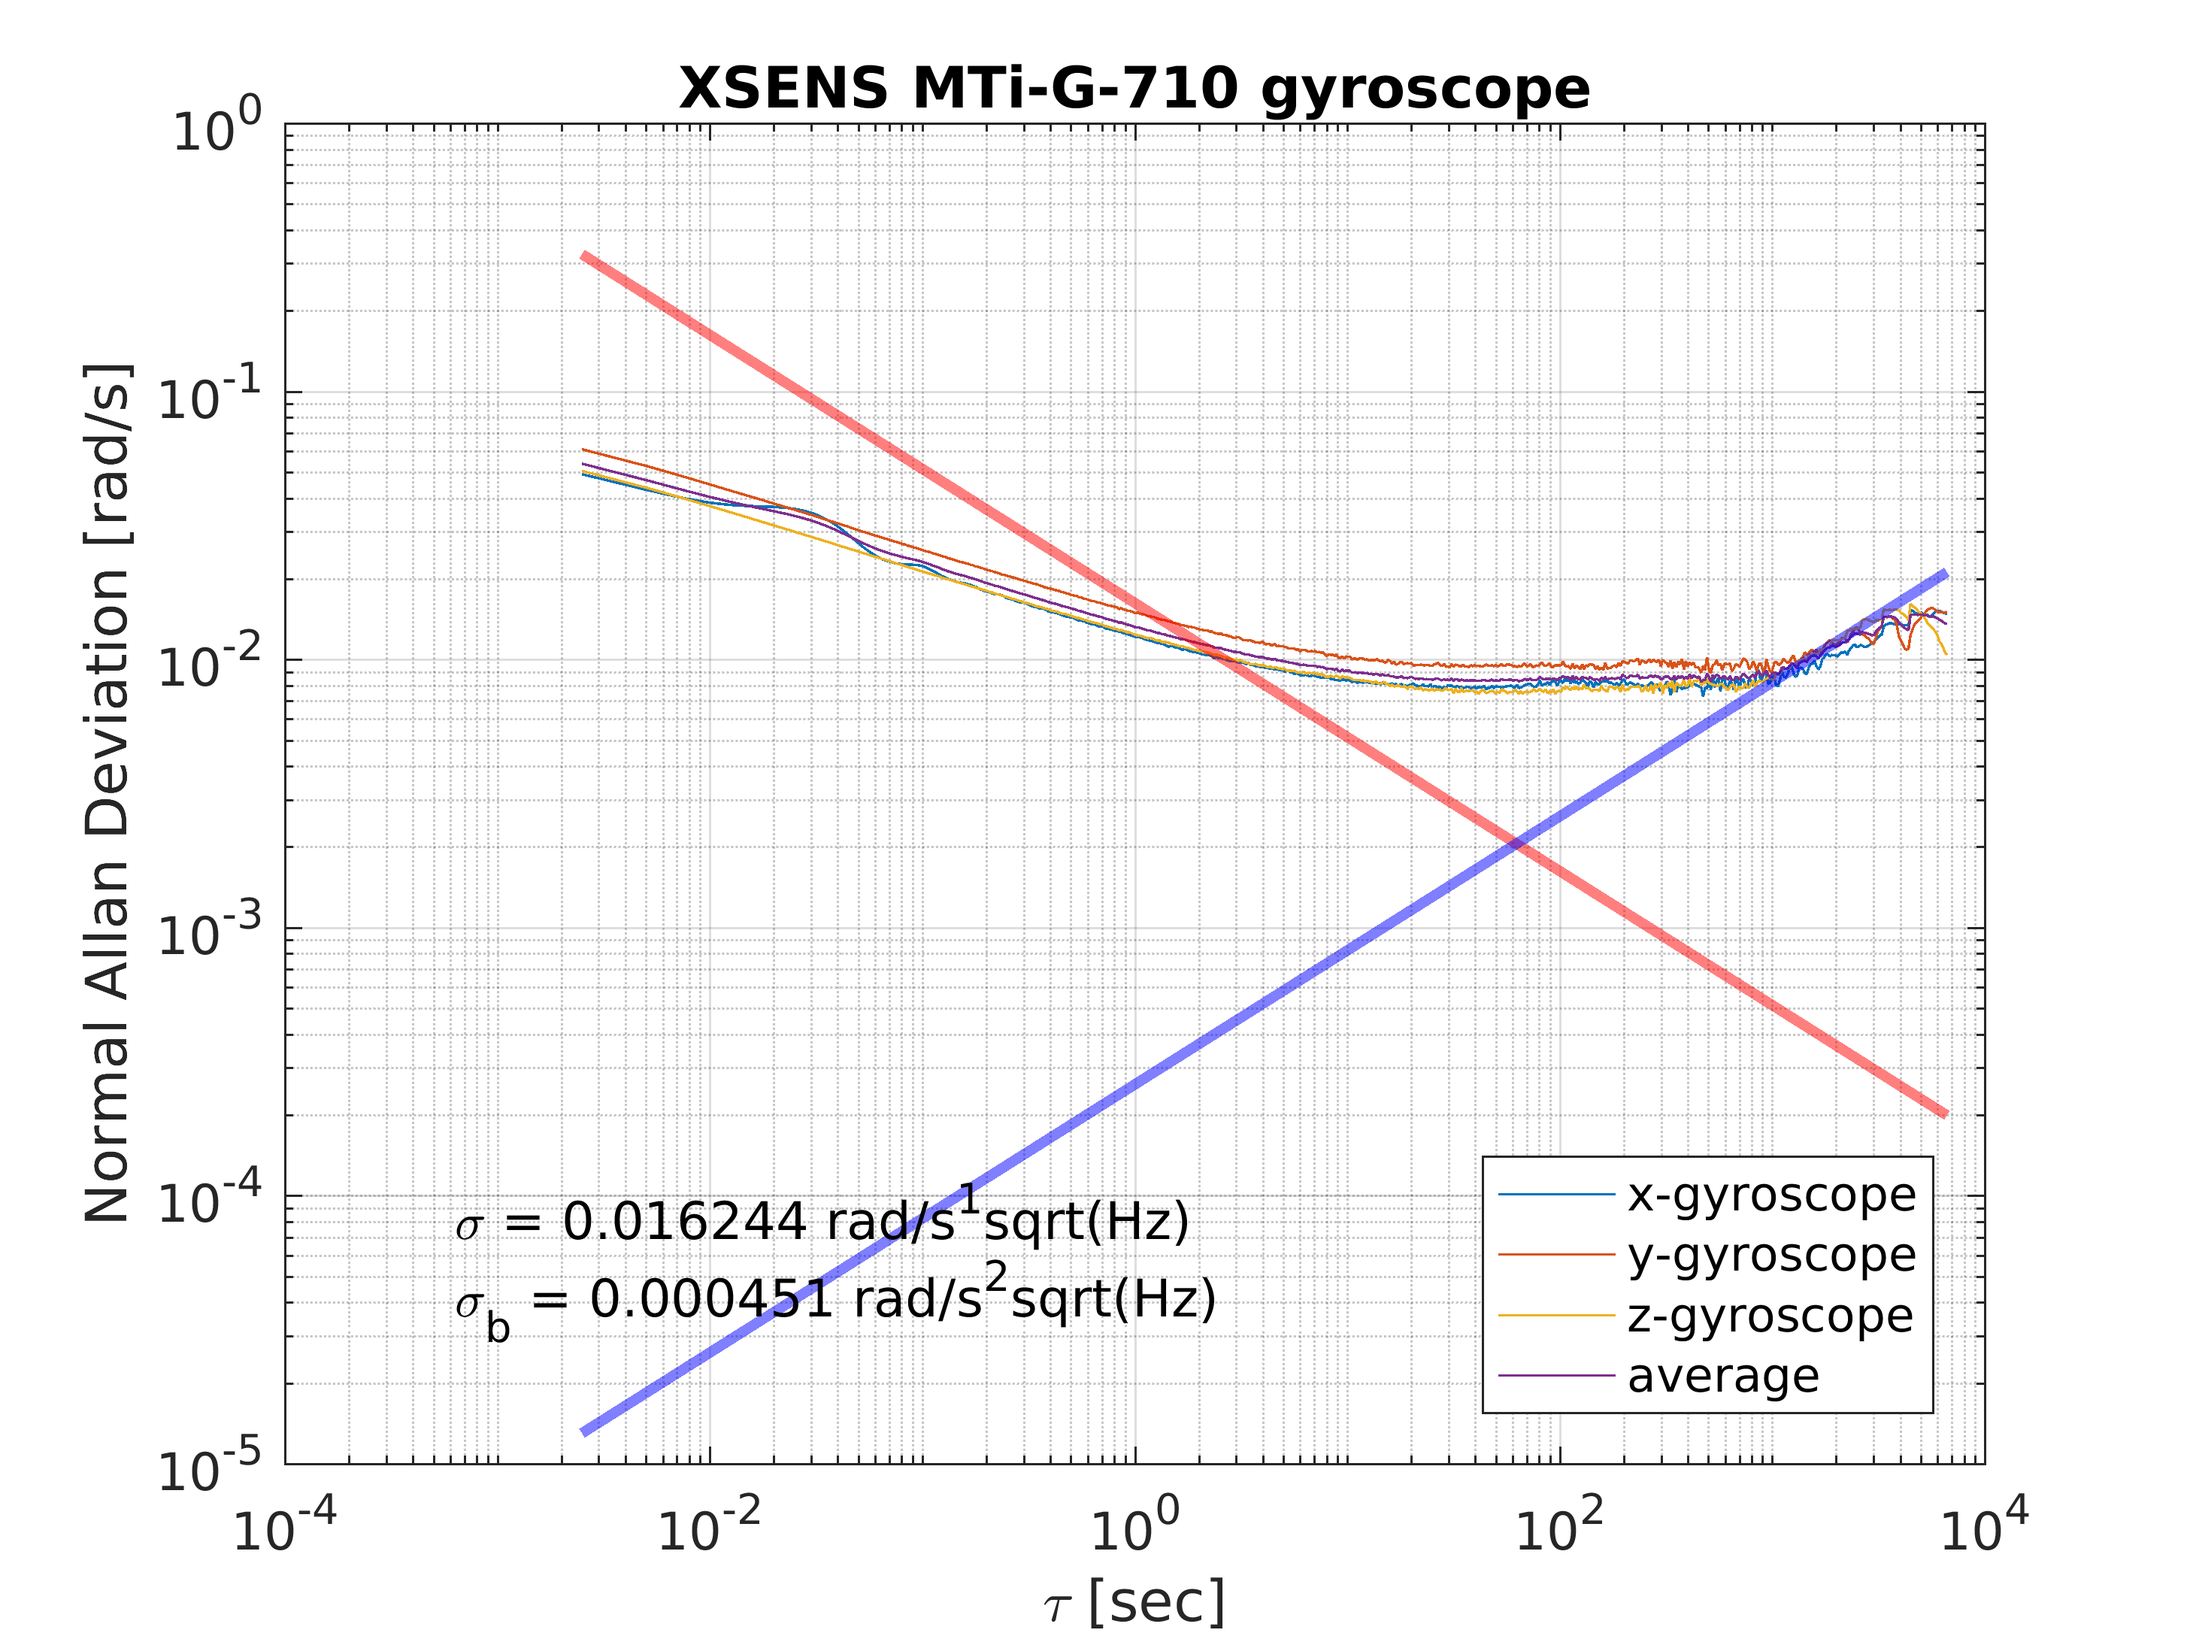
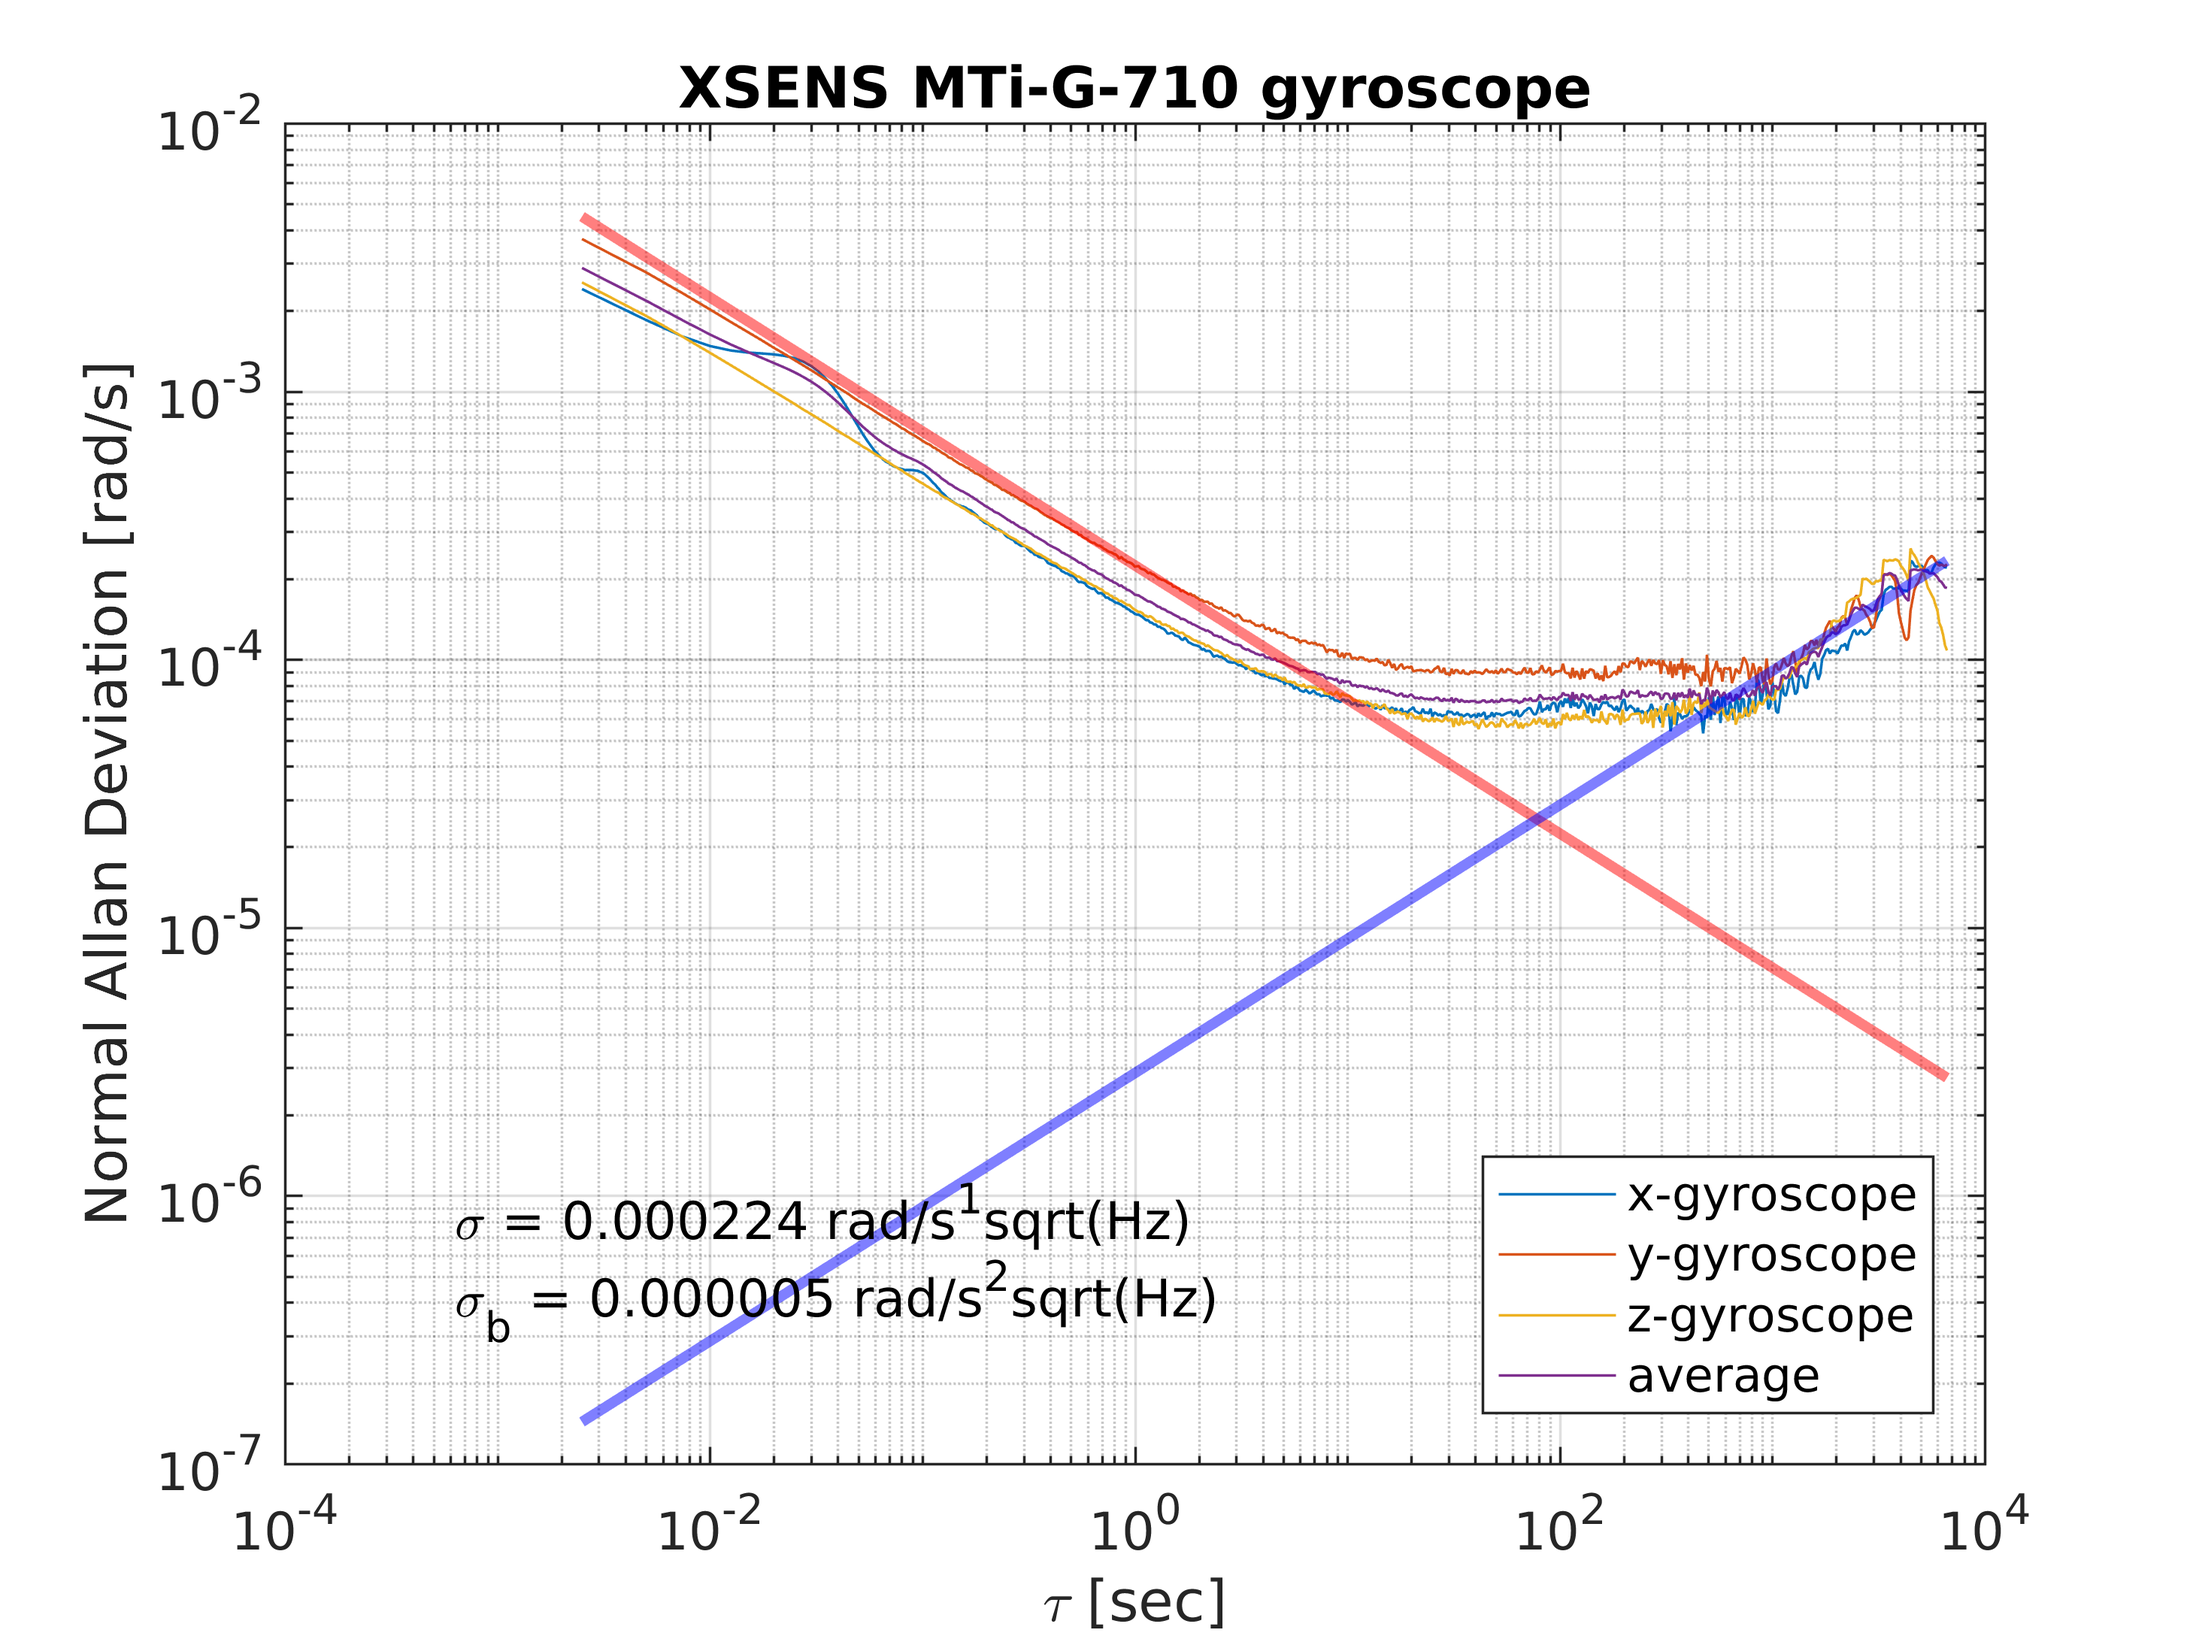
Fixed - Double sqrt error (should fix #10)

diff --git a/matlab/functions/gen_chart.m b/matlab/functions/gen_chart.m
@@ -6,10 +6,10 @@ sigavg = mean([sigx;sigy;sigz]);
 % =======================================================================
 % Plot the results on a figure
 fh1 = figure;
-loglog(tau, sqrt(sigx)); hold on;
-loglog(tau, sqrt(sigy)); hold on;
-loglog(tau, sqrt(sigz)); hold on;
-loglog(tau, sqrt(sigavg)); hold on;
+loglog(tau, sigx); hold on;
+loglog(tau, sigy); hold on;
+loglog(tau, sigz); hold on;
+loglog(tau, sigavg); hold on;
 grid on;
 title([titlestr,' ',name]);
 xlabel('\tau [sec]');
@@ -20,18 +20,18 @@ legend(['x-',name],['y-',name],['z-',name],'average','Location','southeast');
 % Find location of tau=1 by finding where difference is near zero
 tauref = 1;
 taudiff = abs(tau-tauref);
-tauid1 = find(taudiff == min(taudiff));
+tauid1 = find(taudiff == min(taudiff),1);
 fprintf('tau = %.2f | tauid1 = %d\n',tau(tauid1),tauid1);
 
 % We will fit our "white-noise" line where tau is 1
-%windowsize = 50;
+windowsize = 50;
 %window = tauid1-windowsize:tauid1+windowsize;
 minid = find(sigavg == min(sigavg)); % find where the min is
-window = 1:minid; % go from start to min
+window = 1:minid-windowsize; % go from start to min
 
 % Get our x and y values
 x = tau(window);
-y = sqrt(sigavg(window));
+y = sigavg(window);
 nanx = isfinite(y);
 
 % Fit to log-log scale (slope of -1/2)
@@ -39,7 +39,7 @@ nanx = isfinite(y);
 coeffs(1)= -0.5;
 intcs = log(y(nanx)./x(nanx).^coeffs(1));
 coeffs(2) = mean(intcs);
-%fprintf('h_fit1 slope = %.4f | y-intercept = %.4f\n',coeffs(1),coeffs(2));
+fprintf('h_fit1 slope = %.4f | y-intercept = %.4f\n',coeffs(1),coeffs(2));
 
 % Convert from logarithmic scale to linear scale and plot
 h_fit1 = tau.^coeffs(1).*exp(coeffs(2));
@@ -50,18 +50,18 @@ pltlin.Color(4) = 0.5; % make it semi-transparent
 % =======================================================================
 % Next we should fit a 1/2 line to the bias side of the allan plot
 minid = find(sigavg == min(sigavg)); % find where the min is
-window = minid:length(tau); % go from min to the end
+window = minid+windowsize:length(tau); % go from min to the end
 
 % Get our x and y values
 x = tau(window);
-y = sqrt(sigavg(window));
+y = sigavg(window);
 nanx = isfinite(y);
 
 % Calculate the intercept given the slope of +1/2
 coeffs(1)= 0.5;
 intcs = log(y(nanx)./x(nanx).^coeffs(1));
 coeffs(2) = mean(intcs);
-%fprintf('h_fit2 slope = %.4f | y-intercept = %.4f\n',0.5,mean(intcs));
+fprintf('h_fit2 slope = %.4f | y-intercept = %.4f\n',0.5,mean(intcs));
 
 % Convert from logarithmic scale to linear scale and plot
 h_fit2 = tau.^coeffs(1).*exp(coeffs(2));
@@ -72,7 +72,7 @@ pltlin.Color(4) = 0.5; % make it semi-transparent
 % Get what our bias should be (should be at a tau of 3)
 tauref = 3;
 taudiff = abs(tau-tauref);
-tauid2 = find(taudiff == min(taudiff));
+tauid2 = find(taudiff == min(taudiff),1);
 fprintf('tau = %.2f | tauid2 = %d\n',tau(tauid2),tauid2);
 
 

diff --git a/matlab/SCRIPT_process_results.m b/matlab/SCRIPT_process_results.m
@@ -7,28 +7,30 @@ addpath('functions')
 addpath('functions/allan_v3')
 
 % Our bag information
-titlestr = 'XSENS MTi-G-710';
-mat_path = '../data/results_20170908T182715.mat';
+%titlestr = 'XSENS MTi-G-710';
+%mat_path = '../data/bags/results_20170908T182715.mat';
 
 %titlestr = 'Tango Yellowstone #1';
-%mat_path = '../data/results_20171031T115123.mat';
+%mat_path = '../data/bags/results_20171031T115123.mat';
 
+titlestr = 'ADIS16448 VI-Sensor';
+mat_path = '../data/bags/results_20180206T140217.mat';
 
 % Load the mat file (should load "data_imu" matrix)
-fprintf('opening the mat file.\n')
+fprintf('=> opening the mat file.\n')
 load(mat_path);
 
 
 %% Get the calculated sigmas
 
-fprintf('plotting accelerometer.\n')
+fprintf('=> plotting accelerometer.\n')
 [fh1,sigma_a,sigma_ba] = gen_chart(results_ax.tau1,results_ax.sig2,...
                                     results_ay.sig2,results_az.sig2,...
                                     titlestr,'acceleration','m/s^2',...
                                     'm/s^2sqrt(Hz)','m/s^3sqrt(Hz)');
 
 
-fprintf('plotting gyroscope.\n')
+fprintf('=> plotting gyroscope.\n')
 [fh2,sigma_g,sigma_ga] = gen_chart(results_wx.tau1,results_wx.sig2,...
                                     results_wy.sig2,results_wz.sig2,...
                                     titlestr,'gyroscope','rad/s',...
@@ -37,6 +39,7 @@ fprintf('plotting gyroscope.\n')
                                 
 
 %% Print out for easy copying
+fprintf('=> final results\n');
 % Accelerometer
 fprintf('accelerometer_noise_density = %.8f\n',sigma_a);
 fprintf('accelerometer_random_walk   = %.8f\n',sigma_ba);

diff --git a/matlab/SCRIPT_allan_matparallel.m b/matlab/SCRIPT_allan_matparallel.m
@@ -7,11 +7,13 @@ addpath('functions/allan_v3')
 
 % Our bag information
 %mat_path = '../data/imu_mtig700.mat';
-mat_path = '../data/imu_tango.mat';
+%mat_path = '../data/imu_tango.mat';
+mat_path = '../data/imu_visensor.mat';
 
 % IMU information (todo: move this to the yaml file)
 %update_rate = 400;
-update_rate = 100;
+%update_rate = 100;
+update_rate = 200;
 
 
 %% Data processing
@@ -99,7 +101,6 @@ toc
 %% Save workspace
 filename = ['results_',datestr(now,30),'.mat'];
 fprintf('saving to: %s\n',filename);
-%save(['../data/',filename])
 save(['../data/',filename],'update_rate','ts_imua','ts_imuw','tau','taumax','results_ax','results_ay','results_az','results_wx','results_wy','results_wz')
 fprintf('done saving!\n');
 

diff --git a/ReadMe.md b/ReadMe.md
@@ -25,19 +25,30 @@ Accelerometer "random walk" | `accelerometer_random_walk` | <img src="https://la
     * Use the included `bagconvert` ROS package to do this
     * Example: `rosrun bagconvert bagconvert imu.bag /imu0`
 3. Run the included matlab scripts to generate an allan deviation plot for the readings
-    * We have multiple versions of the script
-    * We do *not* recommend the ROS version as matlab parsing of raw ROS bags is slow
-    * If using ROS version, it uses the matlab robotics toolbox
     * If using the parallel version, it uses the matlab parallel toolbox
+    * Need to specify the mat file that the bagconverter made, and the rate of IMU messages
 4. Interpret the generated charts to find noise values
     * Run the process results script
     * Will fit a -1/2 line to the left side of the allan plot
     * White noise is at tau=1 (according to [kalibr wiki](https://github.com/ethz-asl/kalibr/wiki/IMU-Noise-Model#from-the-allan-standard-deviation-ad))
     * Will fit a 1/2 line to the right side of the allan plot
     * Random walk is at tau=3 (according to [kalibr wiki](https://github.com/ethz-asl/kalibr/wiki/IMU-Noise-Model#from-the-allan-standard-deviation-ad))
+5. Some example data can be found this **[this](https://drive.google.com/drive/folders/1a3Es85JDKl7tSpVWEUZryOwtsXB8793o?usp=sharing)**
+    * XSENS MTI-G-700
+    * Tango Yellowstone Tablet
+    * ASL-ETH VI-Sensor
 
+### Example Plot - XSENS MTI-G-700
+![allan chart acceleration](data/results_20170908T182715_accel.png)
 
-## Example Plots (xsens mti-G-700)
+![allan chart angular velocity](data/results_20170908T182715_gyro.png)
+
+### Example Plot - Tango Yellowstone Tablet
 ![allan chart acceleration](data/results_20171031T115123_accel.png)
 
 ![allan chart angular velocity](data/results_20171031T115123_gyro.png)
+
+### Example Plot - ASL-ETH VI-Sensor
+![allan chart acceleration](data/results_20180206T140217_accel.png)
+
+![allan chart angular velocity](data/results_20180206T140217_gyro.png)
